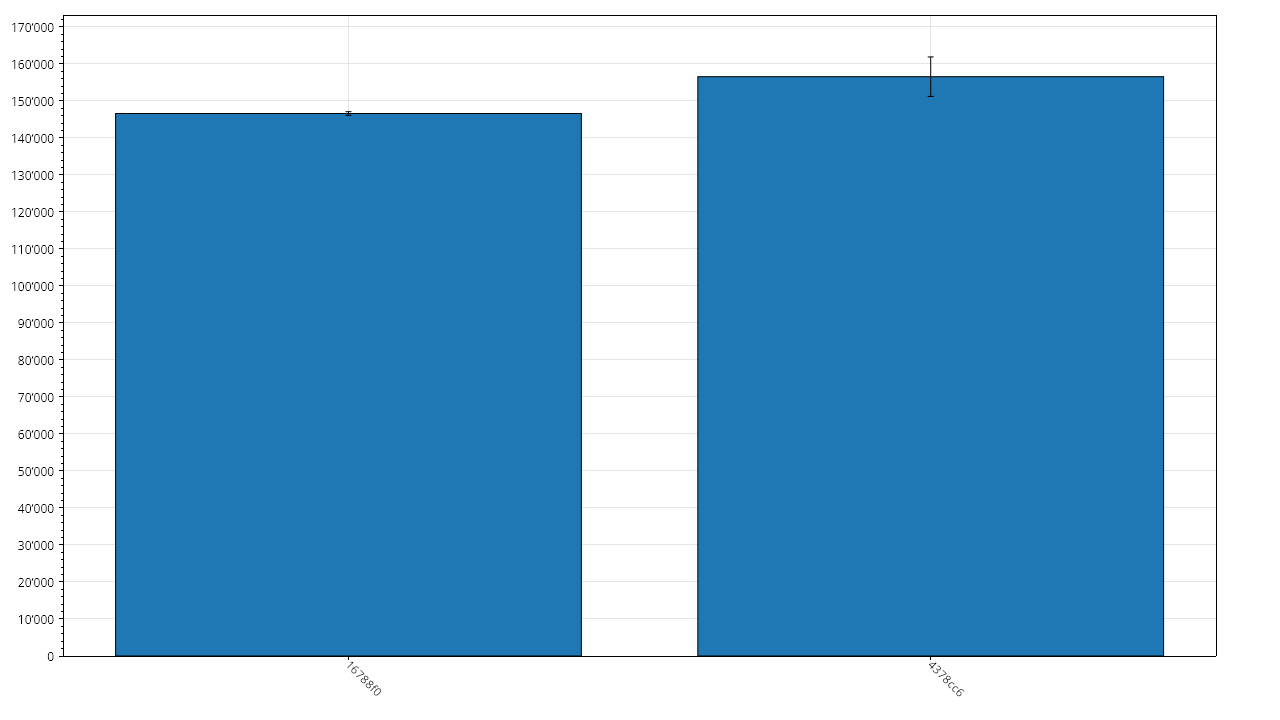
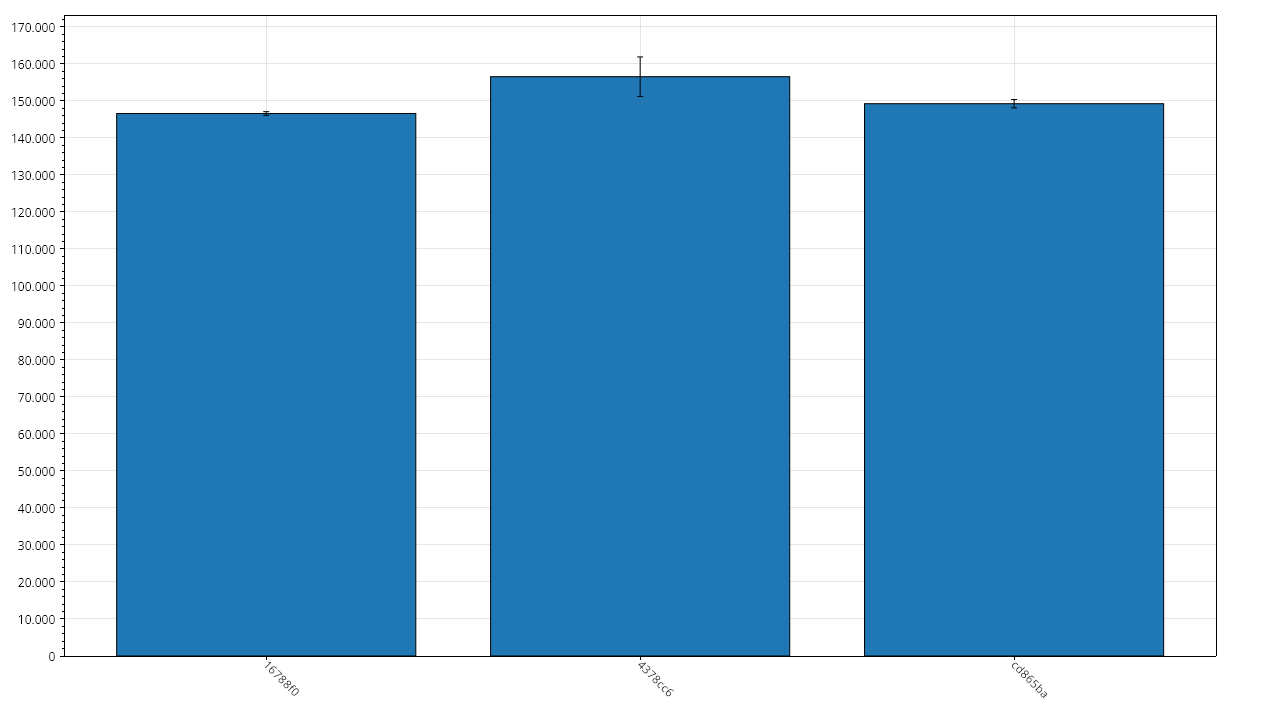
perf: run an new benchmark

diff --git a/Docs/Benchmarks/Summaries/InterpreterBench.md b/Docs/Benchmarks/Summaries/InterpreterBench.md
@@ -2,17 +2,17 @@
 
 ## Metadata
 
-- Git Commit: [4378cc6](https://github.com/xXrederXx/YSharp/commit/4378cc6bbdd7e216fbbf46590e863b5dfc89a964)
-- Recorded At: 03.01.2026 17:26:23
+- Git Commit: [cd865ba](https://github.com/xXrederXx/YSharp/commit/cd865ba938b7cfc6377e7c4fed9f94705ff50ffb)
+- Recorded At: 15.03.2026 12:01:04
 
 ## Results
 
 | Method                 | Time Mean  | Aprox. Error | Allocated | Gen 0 | Gen 1 | Gen 2 |
 | ---------------------- | ---------- | ------------ | --------- | ----- | ----- | ----- |
-| InterpreterBenchmarkL  | 217,312 ns | 807 ns       | 989 kb    | 118   | 43    | 0     |
-| InterpreterBenchmarkM  | 38,259 ns  | 305 ns       | 198 kb    | 24    | 4     | 0     |
-| InterpreterBenchmarkS  | 18,163 ns  | 117 ns       | 98 kb     | 12    | 1     | 0     |
-| InterpreterBenchmarkXL | 474,285 ns | 3,987 ns     | 1,977 kb  | 236   | 127   | 0     |
+| InterpreterBenchmarkL  | 228,717 ns | 1,184 ns     | 989 kb    | 118   | 43    | 0     |
+| InterpreterBenchmarkM  | 39,646 ns  | 250 ns       | 198 kb    | 24    | 4     | 0     |
+| InterpreterBenchmarkS  | 18,631 ns  | 214 ns       | 98 kb     | 12    | 1     | 0     |
+| InterpreterBenchmarkXL | 480,778 ns | 4,355 ns     | 1,977 kb  | 236   | 127   | 0     |
 
 ## History
 

diff --git a/Docs/Benchmarks/Summaries/ParserBench.md b/Docs/Benchmarks/Summaries/ParserBench.md
@@ -2,17 +2,17 @@
 
 ## Metadata
 
-- Git Commit: [4378cc6](https://github.com/xXrederXx/YSharp/commit/4378cc6bbdd7e216fbbf46590e863b5dfc89a964)
-- Recorded At: 03.01.2026 17:26:23
+- Git Commit: [cd865ba](https://github.com/xXrederXx/YSharp/commit/cd865ba938b7cfc6377e7c4fed9f94705ff50ffb)
+- Recorded At: 15.03.2026 12:01:04
 
 ## Results
 
 | Method            | Time Mean    | Aprox. Error | Allocated | Gen 0 | Gen 1 | Gen 2 |
 | ----------------- | ------------ | ------------ | --------- | ----- | ----- | ----- |
-| ParserBenchmarkL  | 1,152,948 ns | 3,267 ns     | 4,048 kb  | 492   | 268   | 35    |
-| ParserBenchmarkM  | 156,564 ns   | 5,340 ns     | 810 kb    | 97    | 32    | 0     |
-| ParserBenchmarkS  | 69,330 ns    | 1,217 ns     | 400 kb    | 48    | 11    | 0     |
-| ParserBenchmarkXL | 3,294,876 ns | 5,636 ns     | 8,095 kb  | 984   | 754   | 70    |
+| ParserBenchmarkL  | 1,179,612 ns | 8,216 ns     | 4,048 kb  | 492   | 268   | 35    |
+| ParserBenchmarkM  | 149,264 ns   | 1,119 ns     | 810 kb    | 97    | 32    | 0     |
+| ParserBenchmarkS  | 72,006 ns    | 2,915 ns     | 400 kb    | 48    | 11    | 0     |
+| ParserBenchmarkXL | 3,325,028 ns | 34,532 ns    | 8,095 kb  | 984   | 754   | 70    |
 
 ## History
 

diff --git a/Docs/Benchmarks/Summaries/LexerBench.md b/Docs/Benchmarks/Summaries/LexerBench.md
@@ -2,17 +2,17 @@
 
 ## Metadata
 
-- Git Commit: [4378cc6](https://github.com/xXrederXx/YSharp/commit/4378cc6bbdd7e216fbbf46590e863b5dfc89a964)
-- Recorded At: 03.01.2026 17:26:23
+- Git Commit: [cd865ba](https://github.com/xXrederXx/YSharp/commit/cd865ba938b7cfc6377e7c4fed9f94705ff50ffb)
+- Recorded At: 15.03.2026 12:01:04
 
 ## Results
 
 | Method           | Time Mean    | Aprox. Error | Allocated | Gen 0 | Gen 1 | Gen 2 |
 | ---------------- | ------------ | ------------ | --------- | ----- | ----- | ----- |
-| LexerBenchmarkL  | 3,020,793 ns | 43,540 ns    | 2,148 kb  | 301   | 297   | 94    |
-| LexerBenchmarkM  | 174,627 ns   | 1,129 ns     | 458 kb    | 54    | 36    | 0     |
-| LexerBenchmarkS  | 83,621 ns    | 387 ns       | 229 kb    | 27    | 10    | 0     |
-| LexerBenchmarkXL | 5,837,520 ns | 183,730 ns   | 4,293 kb  | 586   | 578   | 188   |
+| LexerBenchmarkL  | 3,114,712 ns | 71,474 ns    | 2,148 kb  | 301   | 297   | 94    |
+| LexerBenchmarkM  | 177,297 ns   | 783 ns       | 458 kb    | 54    | 36    | 0     |
+| LexerBenchmarkS  | 84,313 ns    | 307 ns       | 229 kb    | 27    | 10    | 0     |
+| LexerBenchmarkXL | 5,930,572 ns | 149,159 ns   | 4,293 kb  | 586   | 578   | 188   |
 
 ## History
 

diff --git a/Docs/Benchmarks/Summaries/RunTimeBench.md b/Docs/Benchmarks/Summaries/RunTimeBench.md
@@ -2,17 +2,17 @@
 
 ## Metadata
 
-- Git Commit: [4378cc6](https://github.com/xXrederXx/YSharp/commit/4378cc6bbdd7e216fbbf46590e863b5dfc89a964)
-- Recorded At: 03.01.2026 17:26:23
+- Git Commit: [cd865ba](https://github.com/xXrederXx/YSharp/commit/cd865ba938b7cfc6377e7c4fed9f94705ff50ffb)
+- Recorded At: 15.03.2026 12:01:04
 
 ## Results
 
 | Method        | Time Mean     | Aprox. Error | Allocated | Gen 0 | Gen 1 | Gen 2 |
 | ------------- | ------------- | ------------ | --------- | ----- | ----- | ----- |
-| RTBenchmarkL  | 6,470,974 ns  | 80,859 ns    | 7,186 kb  | 914   | 398   | 133   |
-| RTBenchmarkM  | 389,920 ns    | 1,351 ns     | 1,465 kb  | 175   | 75    | 0     |
-| RTBenchmarkS  | 182,210 ns    | 820 ns       | 727 kb    | 87    | 31    | 0     |
-| RTBenchmarkXL | 14,872,096 ns | 200,686 ns   | 14,365 kb | 1,828 | 844   | 281   |
+| RTBenchmarkL  | 6,594,989 ns  | 85,599 ns    | 7,186 kb  | 914   | 398   | 133   |
+| RTBenchmarkM  | 397,494 ns    | 1,998 ns     | 1,465 kb  | 175   | 75    | 0     |
+| RTBenchmarkS  | 185,399 ns    | 904 ns       | 727 kb    | 87    | 31    | 0     |
+| RTBenchmarkXL | 14,843,313 ns | 202,380 ns   | 14,365 kb | 1,828 | 844   | 281   |
 
 ## History
 
